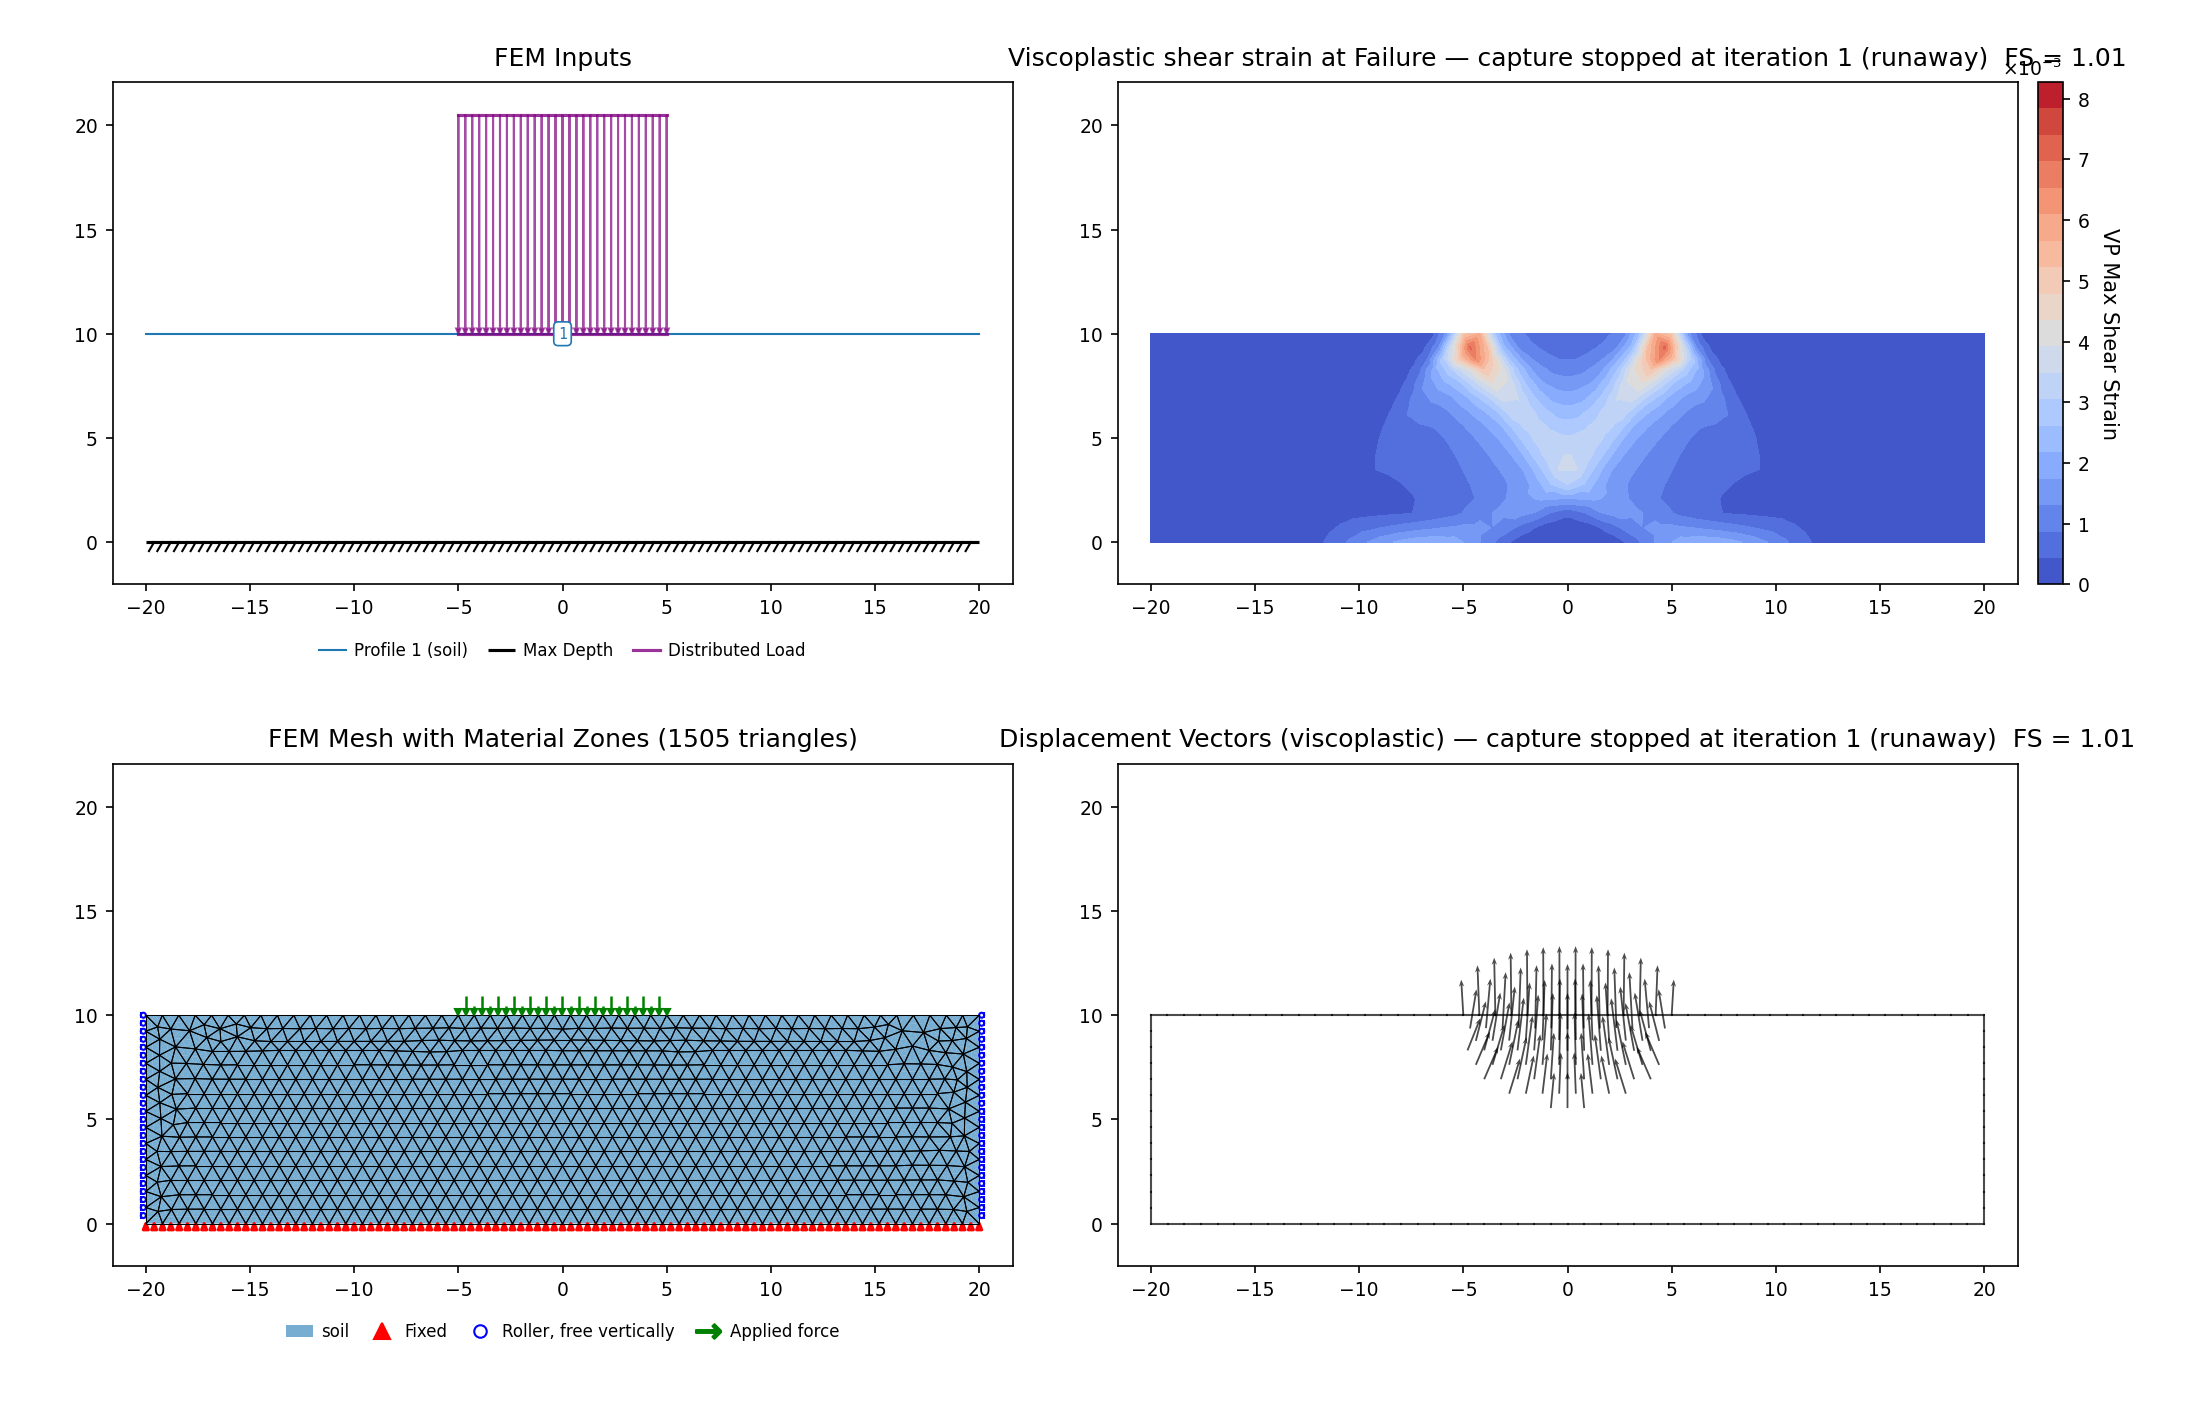
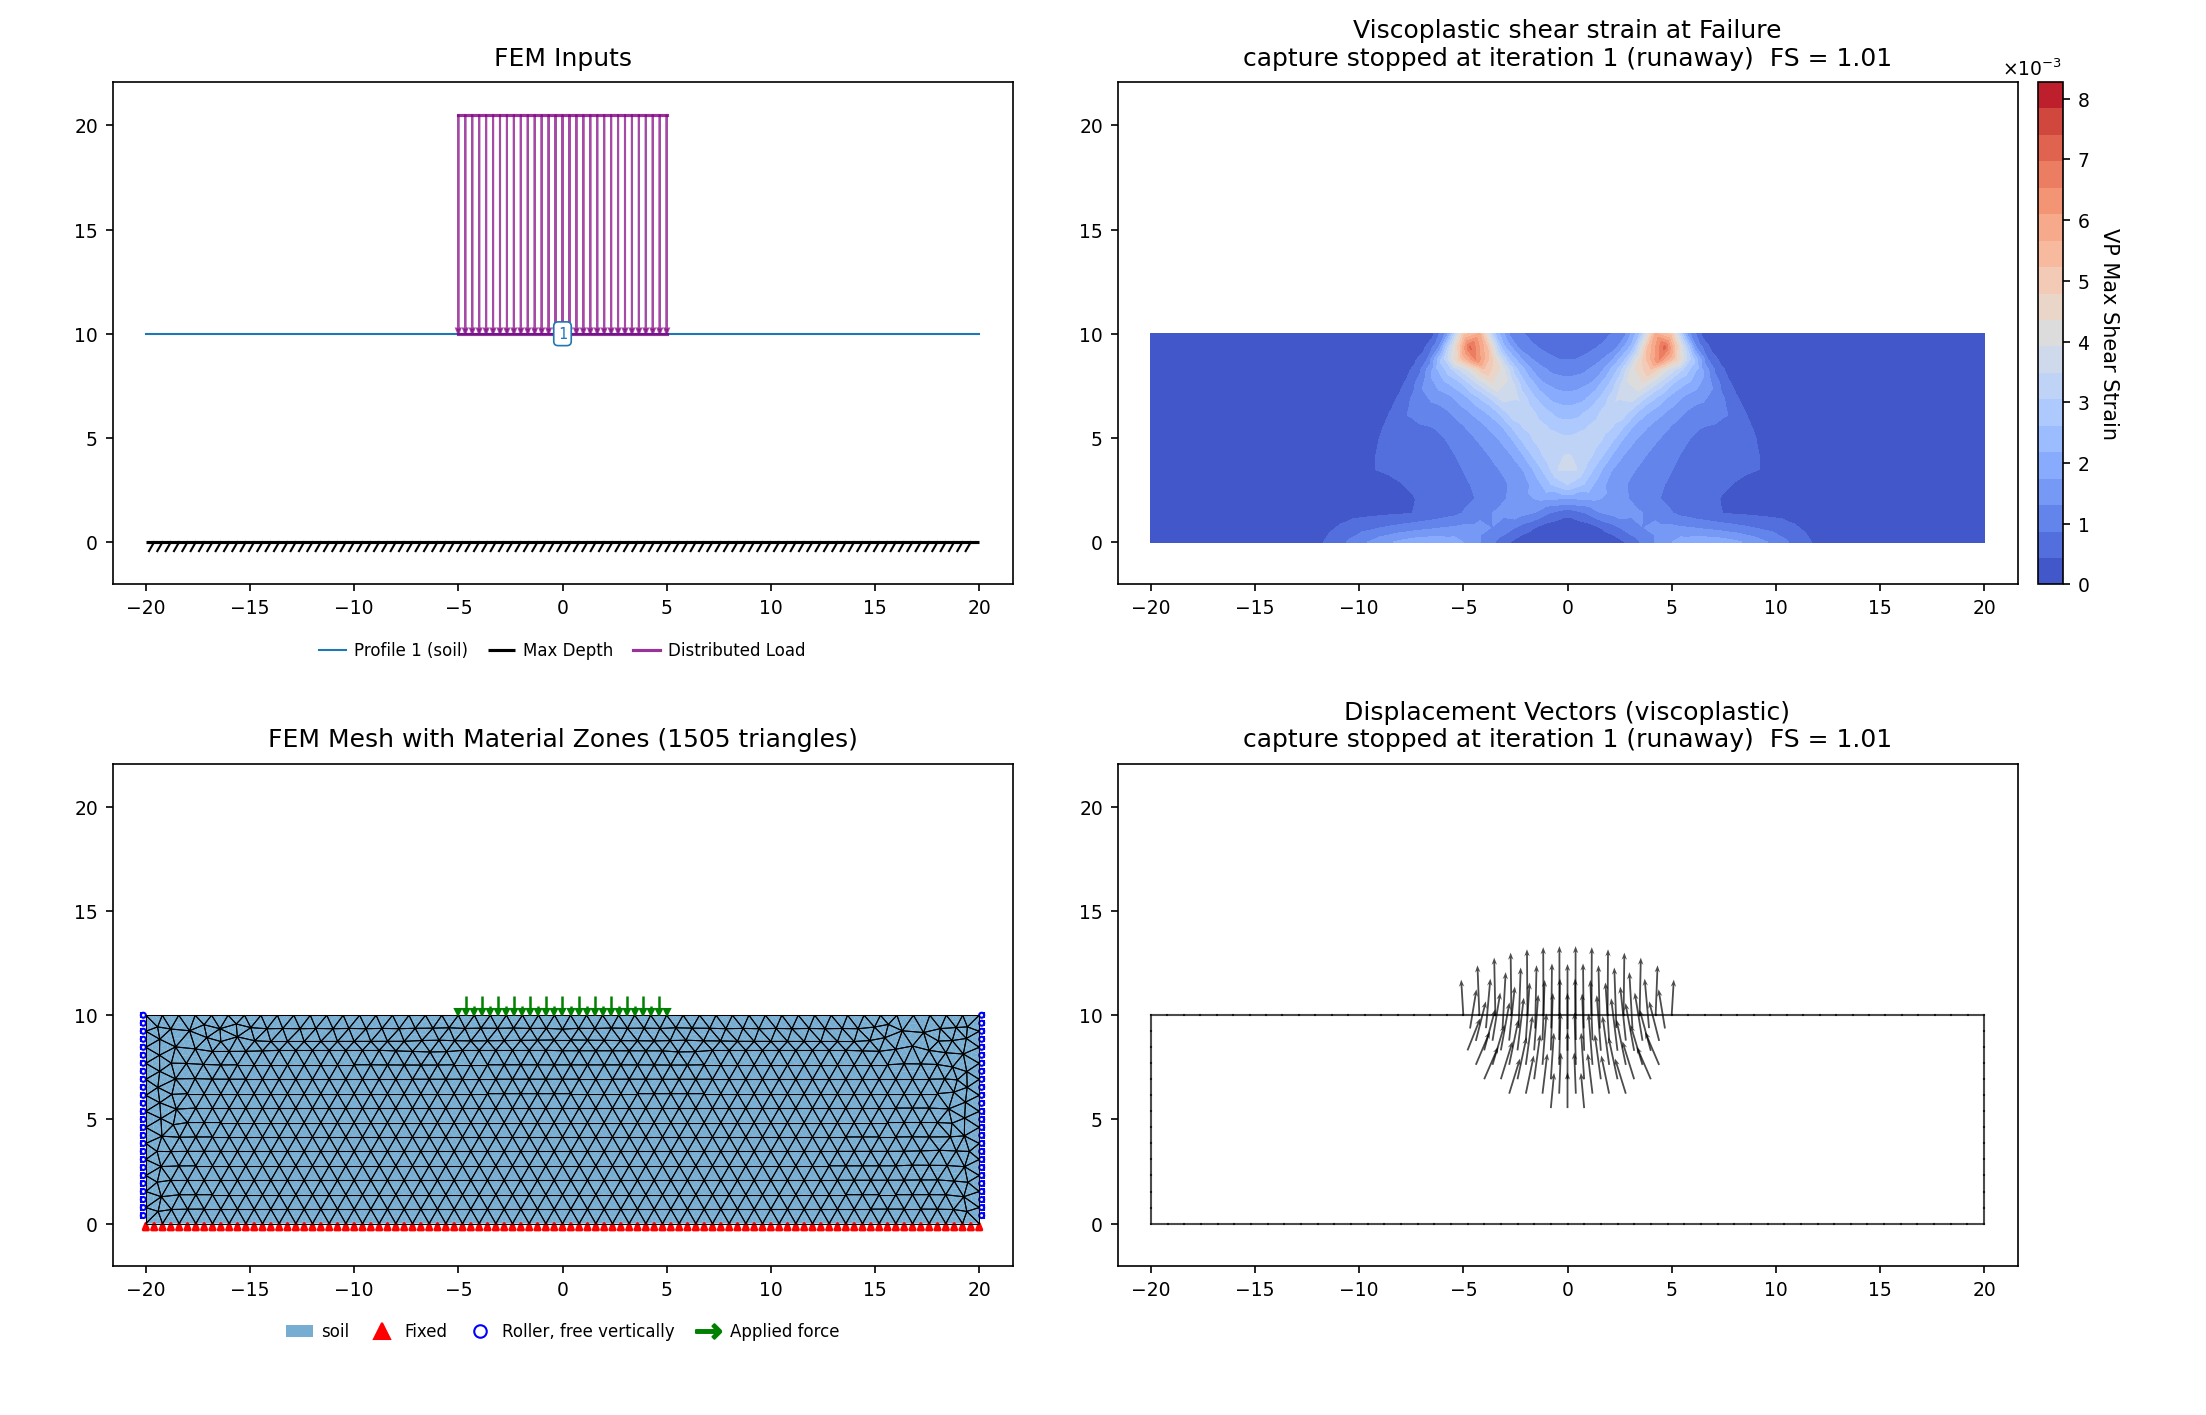
plot(fem): a capture-truncation clause wraps instead of growing the title sideways
RS2-21's re-locked composite moved its capture from F = 1.153 to 1.163, where the
Prandtl prism runs away at the first iteration, so both of its right-hand panels
picked up the "capture stopped at iteration N (runaway)" clause. Appended after a
dash the clause grew each title sideways out of its own panel: the upper-right
title reached across the inter-panel gutter and over the colorbar's exponent
label, and the page's figure check read the composite as a single axes because
the gutter no longer had a clean band of white in it.

A panel title is centred on its own axes, so any clause appended inline grows
until it runs over whatever sits beside the panel. The clause now goes on a
second line, which holds the title inside the panel's width however long the
clause is and needs no measurement of the figure to do it. RS2-21 is re-rendered
and reads as four panels again; every word of the clause is still there.

Claude-Session: https://claude.ai/code/session_01XjjT2aBxw8gY7EFdpoUcpj

Changed region(s): [[0.4624, 0.0, 0.9248, 0.0622], [0.4624, 0.4975, 0.9248, 0.5286]]

diff --git a/xslope/plot_fem.py b/xslope/plot_fem.py
@@ -62,9 +62,16 @@ def _fallback_clause(solution, title):
     iteration it was taken at, so the reader knows the field is a moment and not
     an equilibrium. A panel standing on the converged field because there was no
     capture at all says that instead.
+
+    The clause goes on a SECOND LINE rather than after a dash. A panel title is
+    laid out from its own axes' center, so a clause appended inline grows the
+    title sideways until it runs over whatever sits beside the panel — the
+    neighbouring panel's title in a composite, or its own colorbar's exponent
+    label. Wrapping keeps the title inside the panel's width however long the
+    clause is, which is what a self-adjusting layout means here.
     """
     if solution.get("_capture_fallback", False):
-        return f"{title} — {CAPTURE_FALLBACK_TITLE}"
+        return f"{title}\n{CAPTURE_FALLBACK_TITLE}"
     if solution.get("capture_truncated"):
         at = solution.get("capture_truncated_at")
         # Every stop but one is the section running away; the exception is the
@@ -73,8 +80,8 @@ def _fallback_clause(solution, title):
                if solution.get("capture_truncated_kind") == "non_finite"
                else "runaway")
         if at is not None:
-            return f"{title} — capture stopped at iteration {at} ({why})"
-        return f"{title} — capture stopped early"
+            return f"{title}\ncapture stopped at iteration {at} ({why})"
+        return f"{title}\ncapture stopped early"
     return title
 
 
